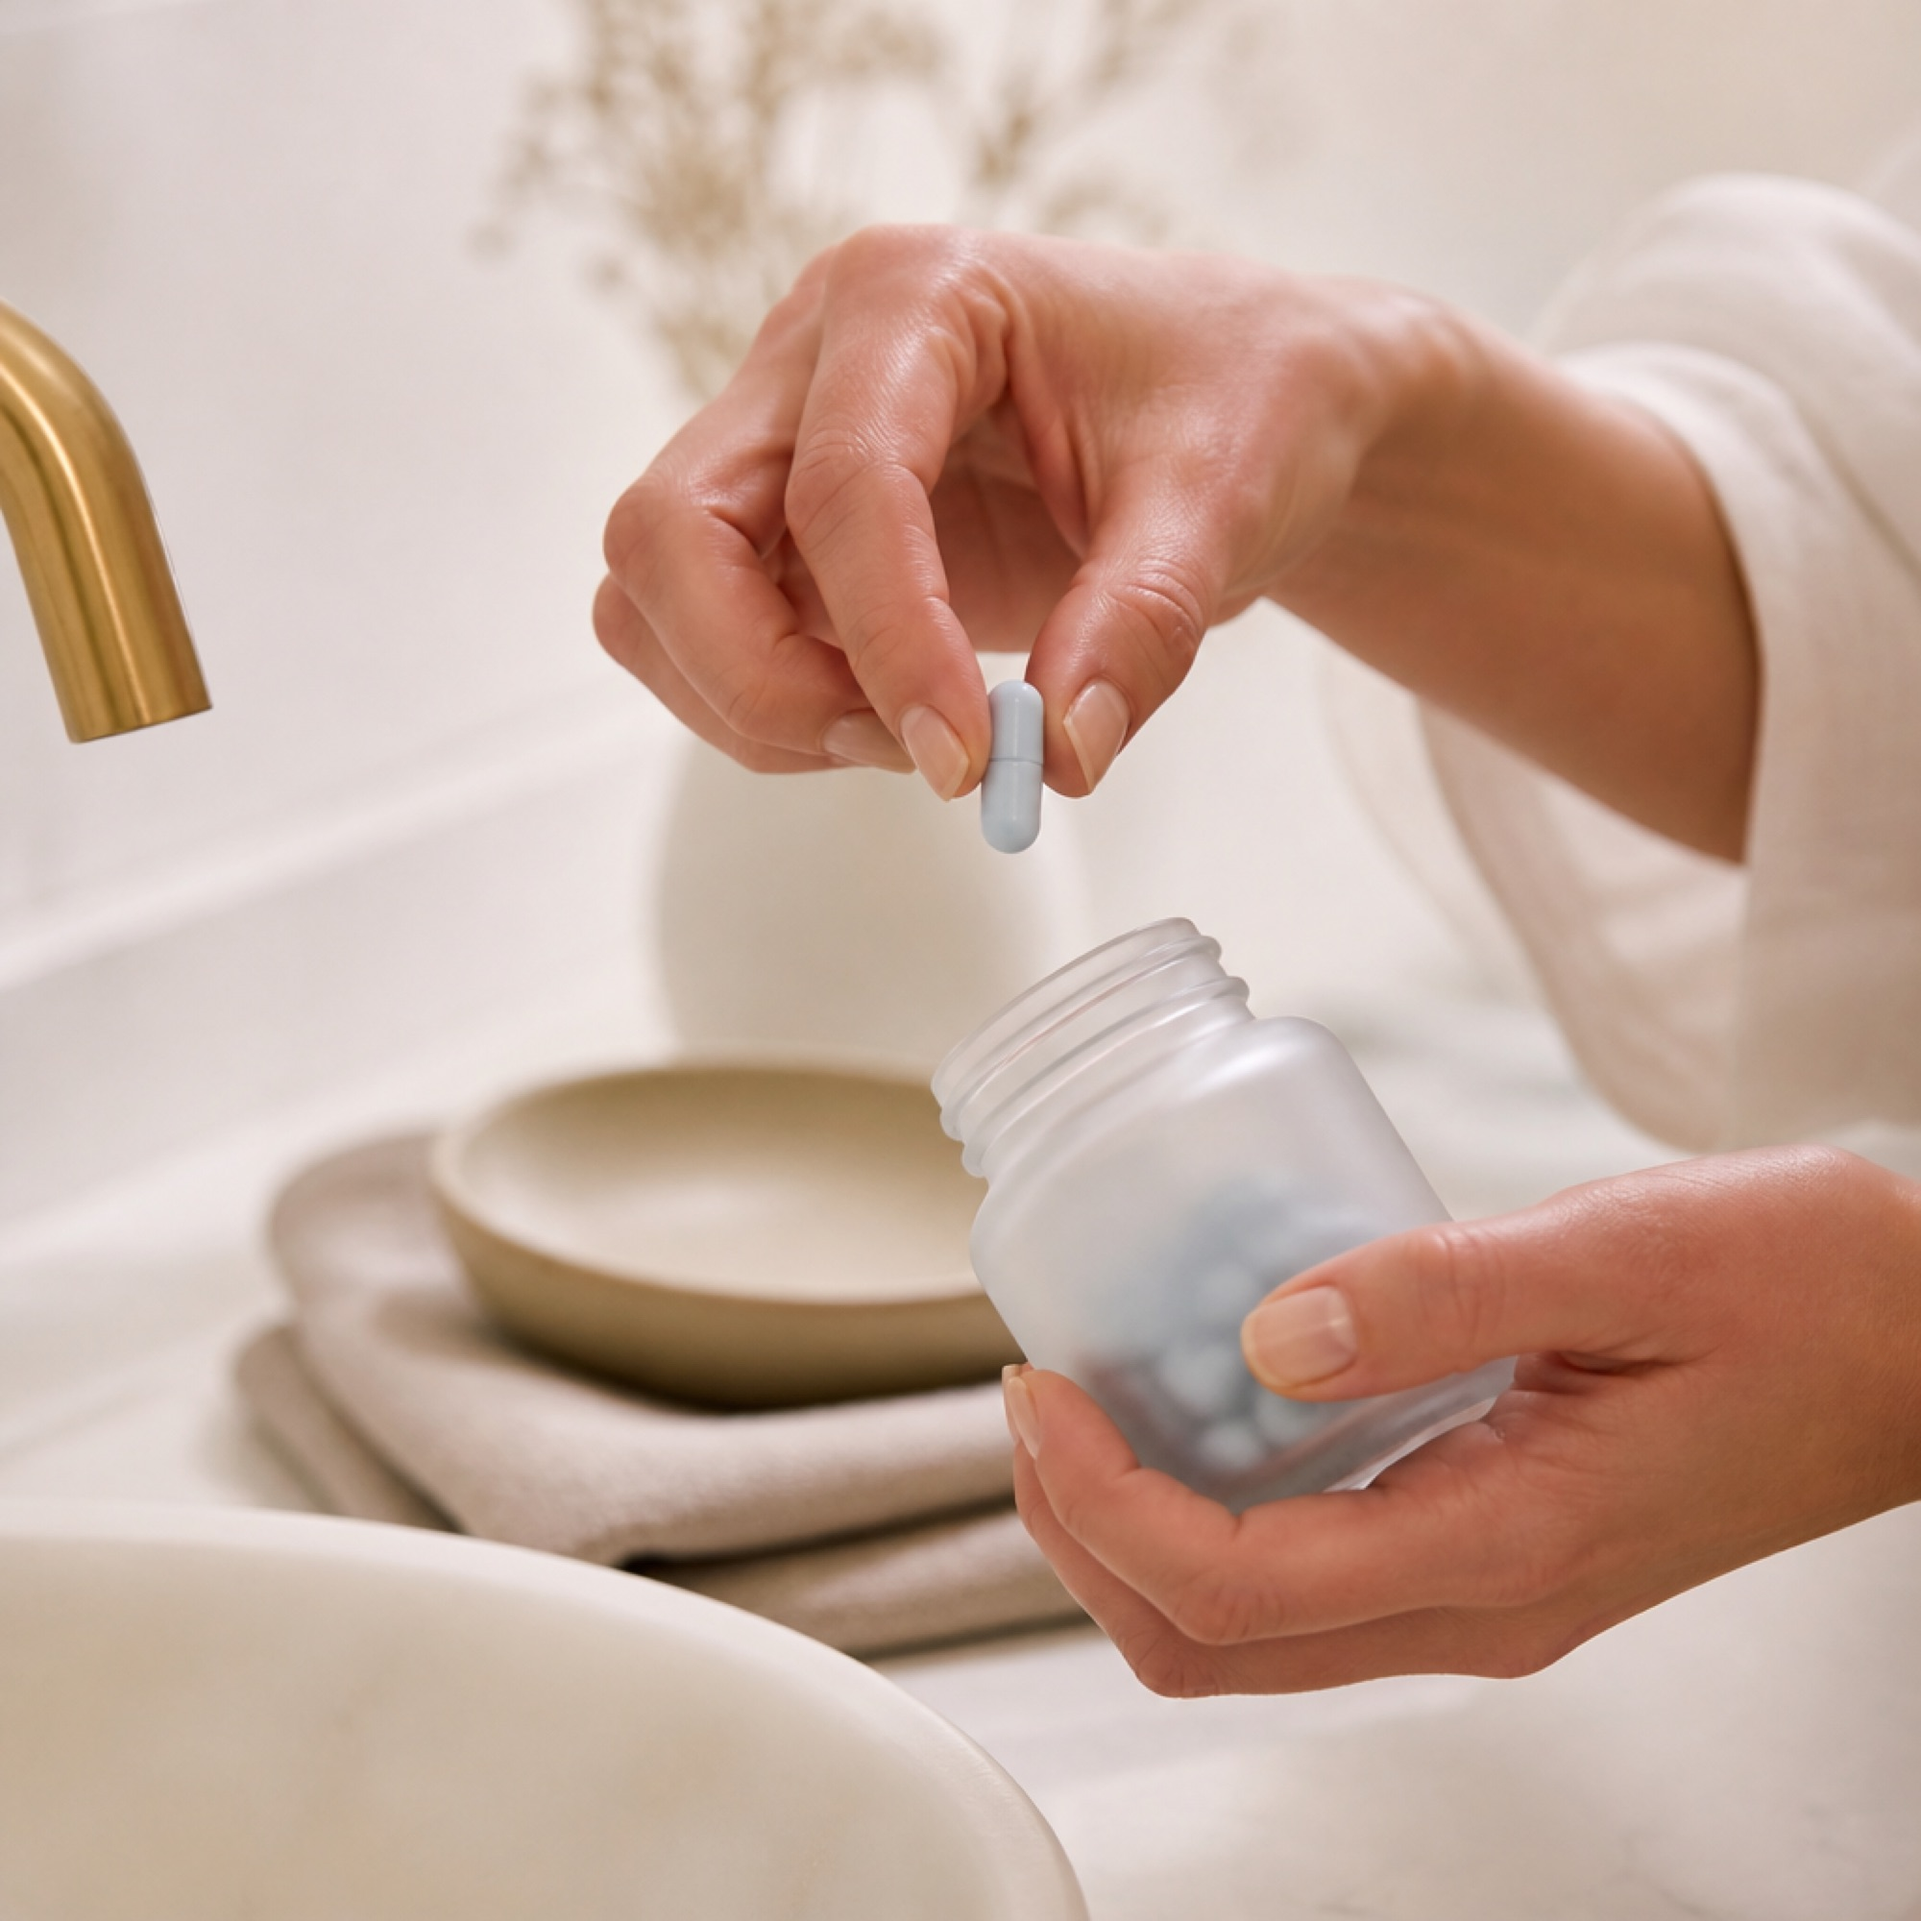
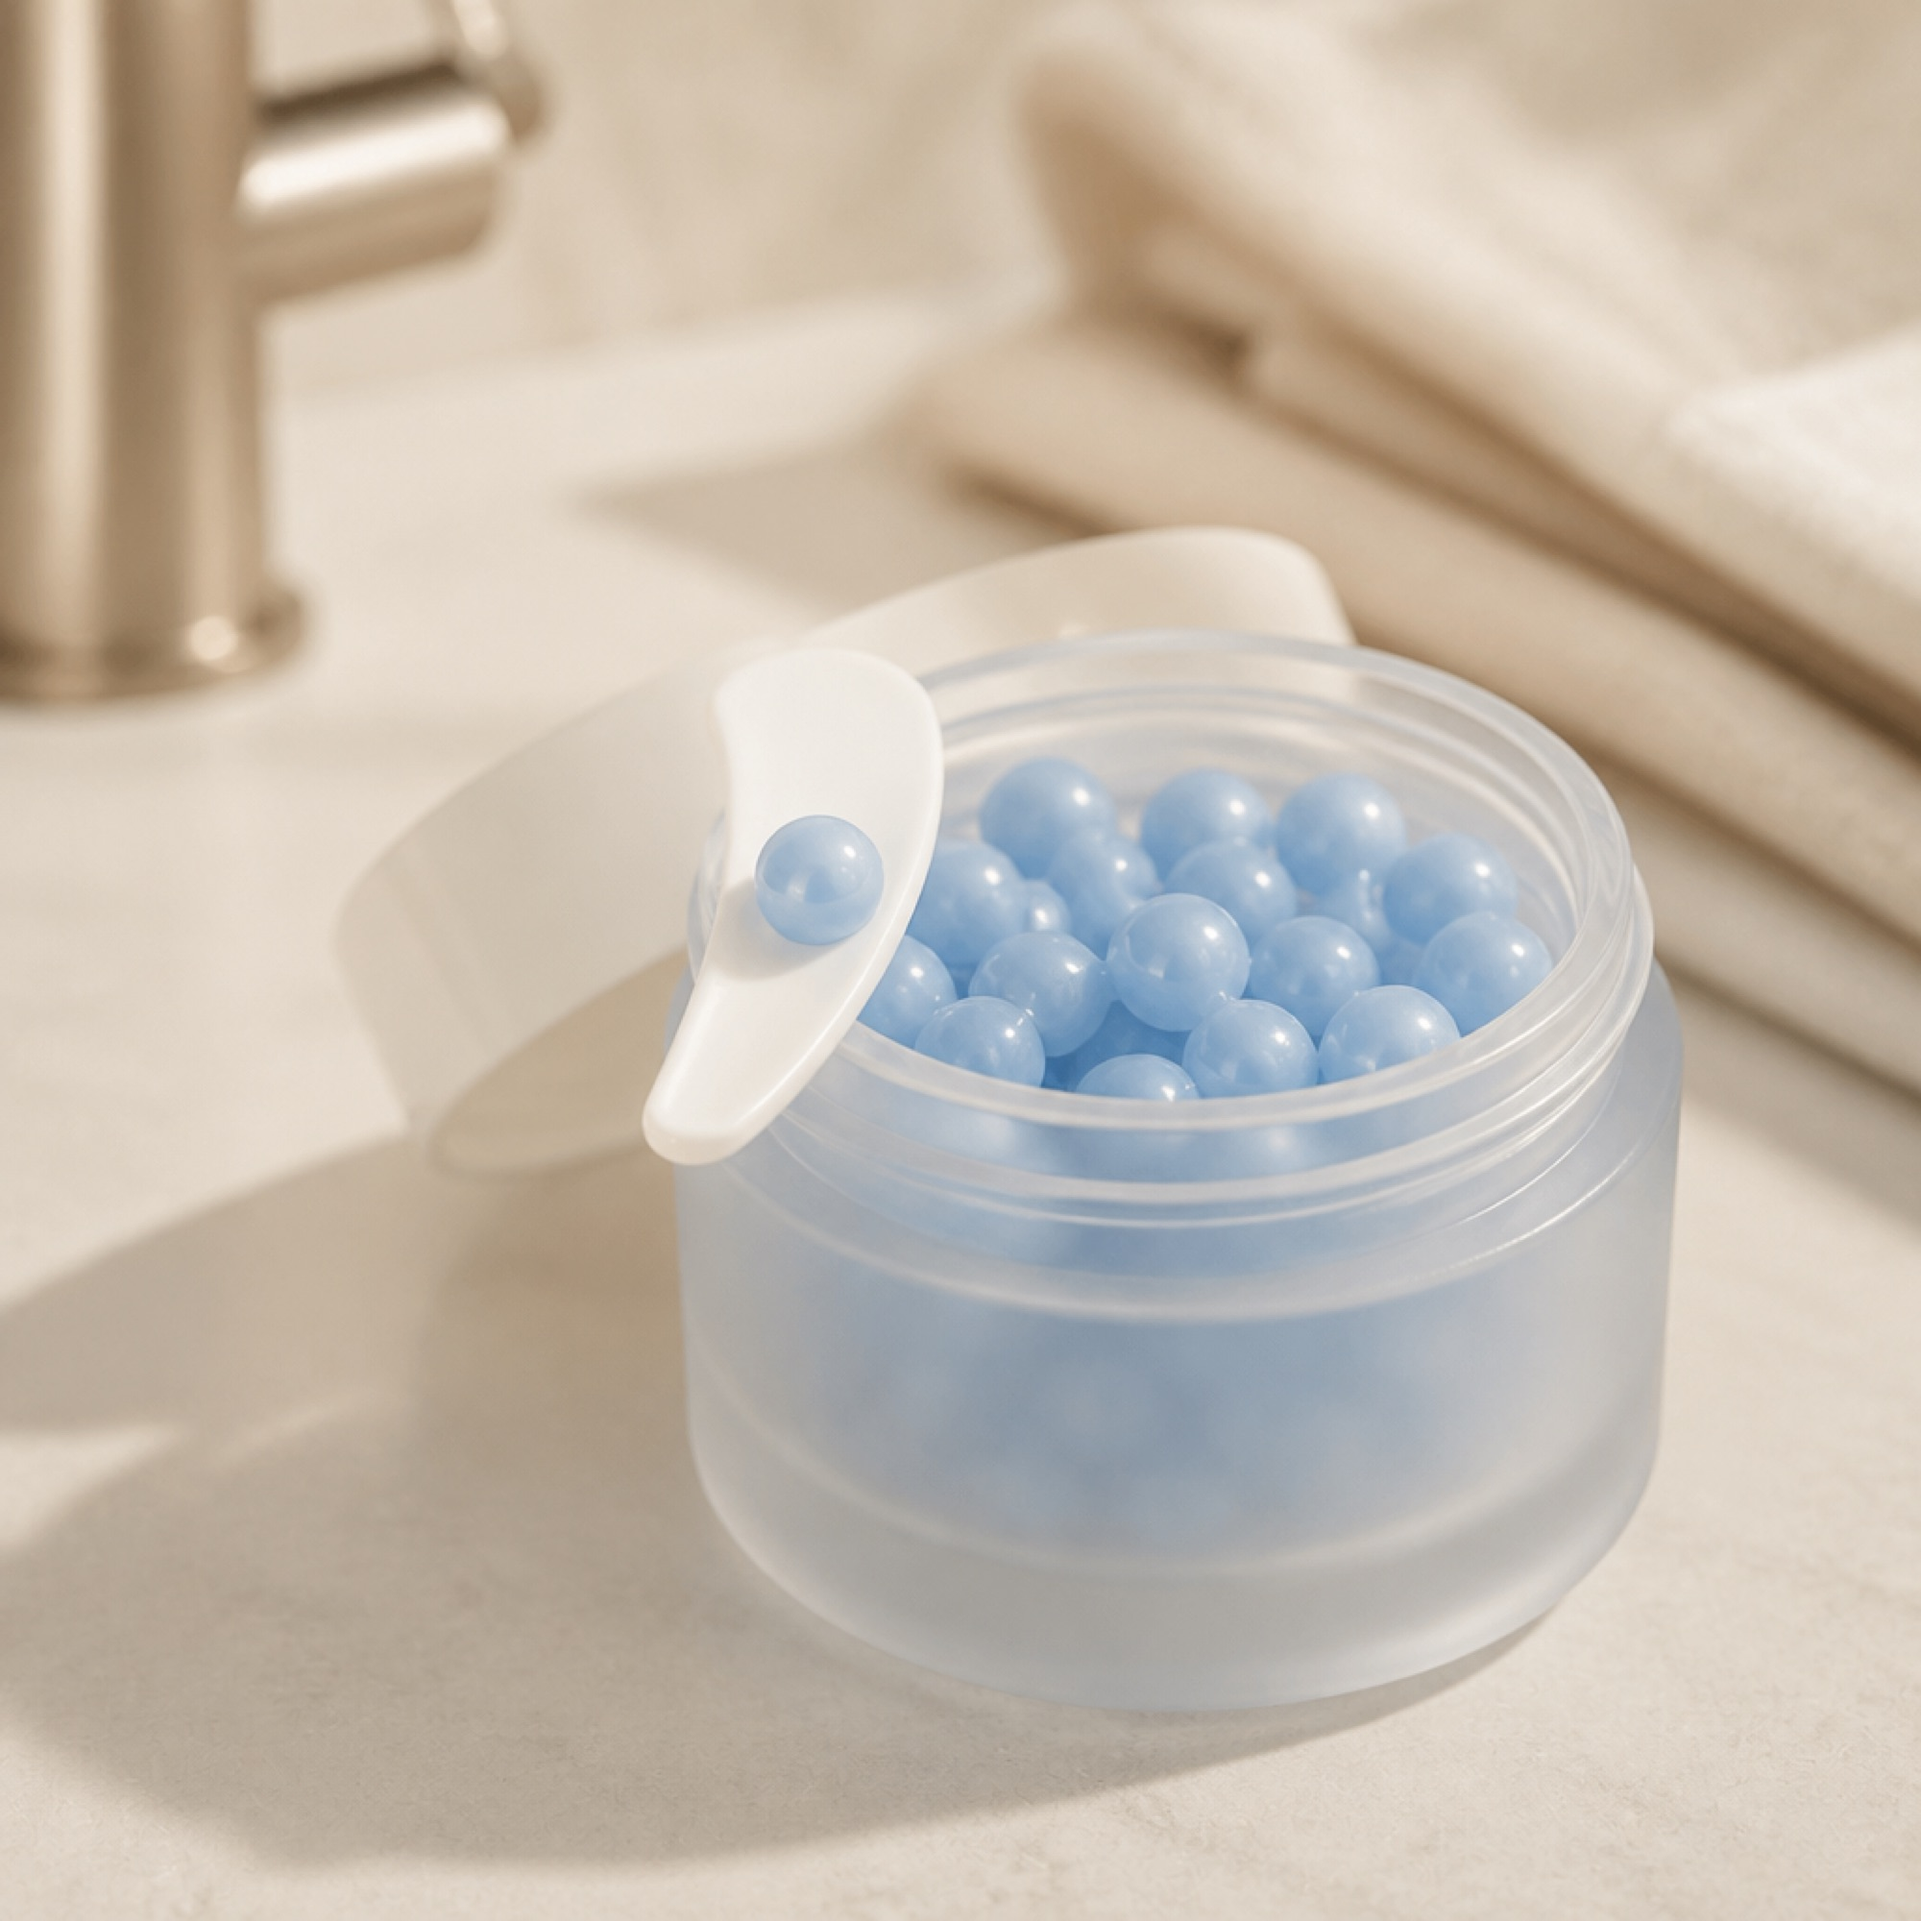
Correct shampoo blue, Capsule Cream scooper, and Lift Cream syringe.
Replace white-lather human shots with light-blue product, swap the Science lead from a hand-held pill to the real white scooper, and reshoot the lineup Lift Cream card as the coiled-gel syringe.

diff --git a/components/home/HomePageClient.tsx b/components/home/HomePageClient.tsx
@@ -396,7 +396,7 @@ function ScienceSection() {
             <div className="seed-card relative aspect-[4/5] bg-[#ebe8df] md:aspect-square">
               <Image
                 src="/images/home/h12-science-dose.jpg"
-                alt="A measured copper peptide capsule dose"
+                alt="The small white scooper used with Capsule Cream"
                 fill
                 className="object-cover object-center"
                 sizes="(max-width: 768px) 100vw, 45vw"
